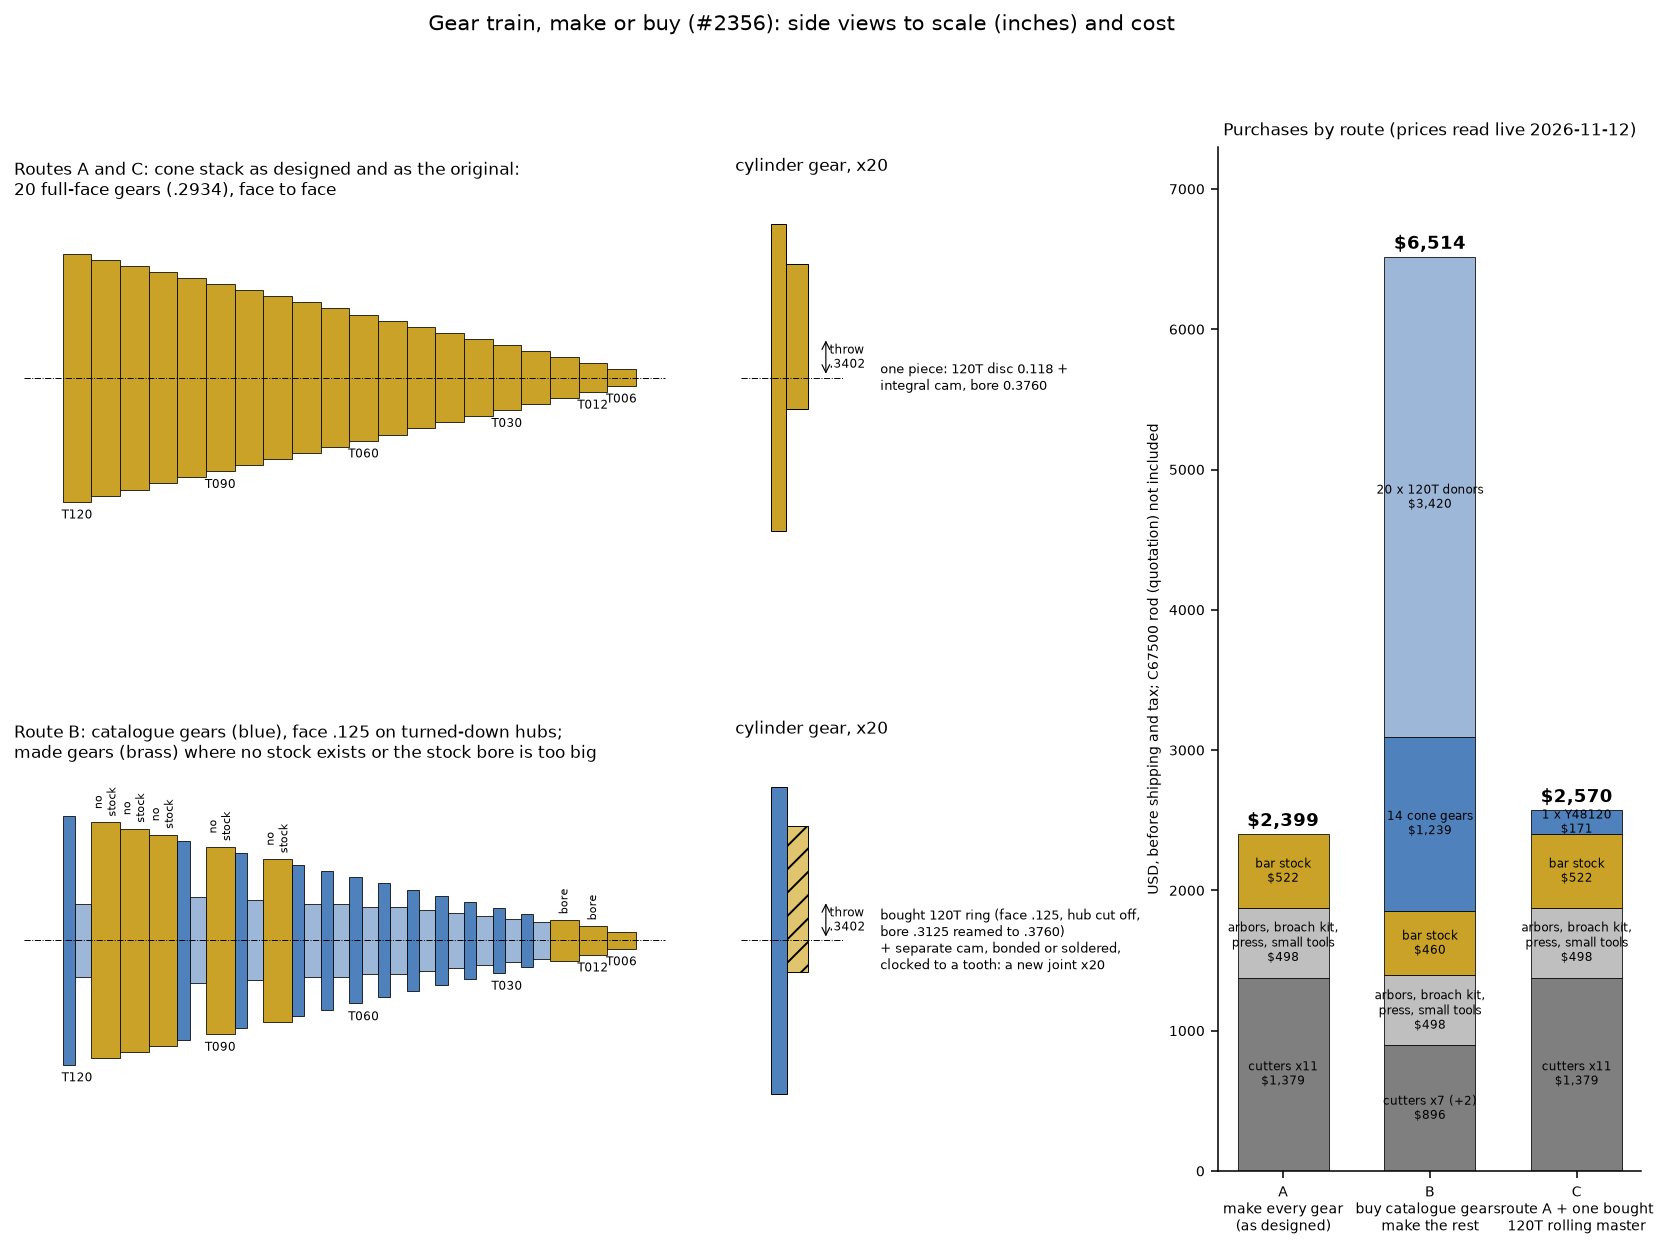
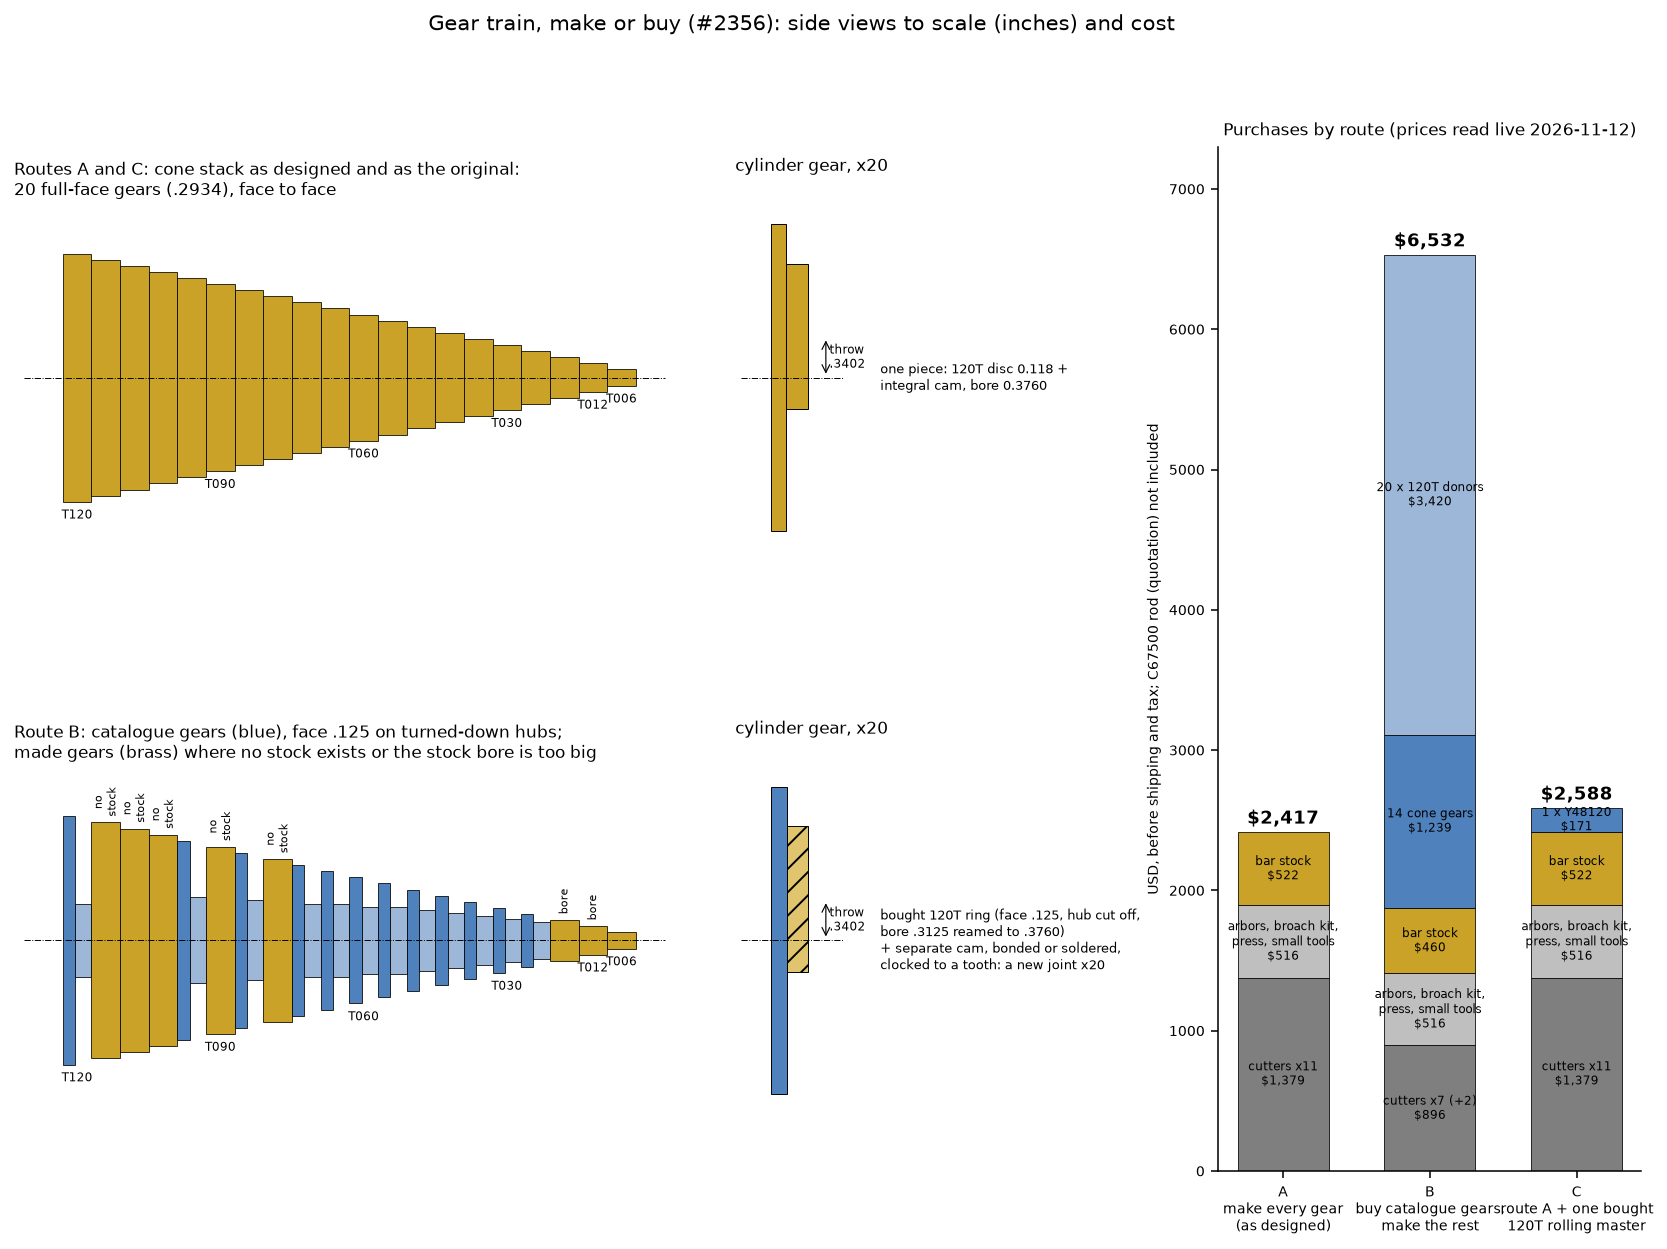
docs: tool kits in machining-dfm; purchase list with the kits' hardware (#2356, #2361, #2358, #2465)

diff --git a/research/3-detailed-design/gear-train-purchase-options/compare_routes.py b/research/3-detailed-design/gear-train-purchase-options/compare_routes.py
@@ -46,9 +46,9 @@ BRASS, BOUGHT, MADE, STEEL = "#c9a227", "#4f81bd", "#c9a227", "#8c8c8c"
 
 # Route totals, USD before shipping and tax, C67500 rod (quotation) excluded.
 ROUTES = (
-    ("A\nmake every gear\n(as designed)", (("cutters x11", 1379.13), ("arbors, broach kit,\npress, small tools", 498.48), ("bar stock", 521.58))),
-    ("B\nbuy catalogue gears,\nmake the rest", (("cutters x7 (+2)", 895.97), ("arbors, broach kit,\npress, small tools", 498.48), ("bar stock", 460.39), ("14 cone gears", 1239.32), ("20 x 120T donors", 3420.00))),
-    ("C\nroute A + one bought\n120T rolling master", (("cutters x11", 1379.13), ("arbors, broach kit,\npress, small tools", 498.48), ("bar stock", 521.58), ("1 x Y48120", 171.00))),
+    ("A\nmake every gear\n(as designed)", (("cutters x11", 1379.13), ("arbors, broach kit,\npress, small tools", 516.20), ("bar stock", 521.58))),
+    ("B\nbuy catalogue gears,\nmake the rest", (("cutters x7 (+2)", 895.97), ("arbors, broach kit,\npress, small tools", 516.20), ("bar stock", 460.39), ("14 cone gears", 1239.32), ("20 x 120T donors", 3420.00))),
+    ("C\nroute A + one bought\n120T rolling master", (("cutters x11", 1379.13), ("arbors, broach kit,\npress, small tools", 516.20), ("bar stock", 521.58), ("1 x Y48120", 171.00))),
 )  # fmt: skip
 
 

diff --git a/cad/docs/machining-dfm.md b/cad/docs/machining-dfm.md
@@ -82,7 +82,7 @@ its first-root position; no second general note restates that location.
 - **The repeat families (make N identical by hand: the shop is manual, so fixtures, stops and indexing carry the repeatability):**
   | family | qty | repeat risk and route |
   |---|---|---|
-  | `dt-cylinder-gear` (+ integral cam) | 20 | 120 teeth + eccentric cam + 0.4 mm index notch, all co-phased +Y — hand-repeating 20× scatters the phase. Teeth with the stock #2 cutter on the BS-0; the cam's throw and phase need an eccentric fixture that is not drawn, so the cam route is **not selected** ([#2361](https://github.com/pedropaulovc/harmonic-analyzer/issues/2361)); the notch needs a .014 in screw-slotting saw that is not yet owned (`shop-equipment.toml` `tools.cylinder-notch-saw`, [#2364](https://github.com/pedropaulovc/harmonic-analyzer/issues/2364)) |
+  | `dt-cylinder-gear` (+ integral cam) | 20 | 120 teeth + eccentric cam + 0.4 mm index notch, all co-phased +Y — hand-repeating 20× scatters the phase. Bore and OD first, then teeth and notch together on an arbor with the stock #2 cutter on the BS-0, then the cam on the lathe fixture MHA-DT-12-TL-01 (fitting sheet MHA-DT-12-TL-00): its stub sets the throw and its clock pin, in the notched tooth space, sets the phase, once for all 20 (see [Cylinder-gear cam](#cylinder-gear-cam)). The notch needs a .014 in screw-slotting saw that is not yet owned (`shop-equipment.toml` `tools.cylinder-notch-saw`, [#2364](https://github.com/pedropaulovc/harmonic-analyzer/issues/2364)) |
   | `dt-cone-gear` | 19 | involute teeth cut with stock 48DP PA20 range cutters indexed on the BS-0 dividing head; T006 (`dt-cone-tip-gear`) alone needs a special cutter (see [Cutter plan](#cutter-plan)); wire-EDM = outsource alt. T030–T120 are bored and broached first, then cut on the keyed arbor MHA-DT-03-TL-03 (fitting sheet MHA-DT-03-TL-05), which clocks each blank by its keyway. The cutters, cutter arbors and broach are recorded to buy, not owned (`shop-equipment.toml`, "gear cutting kit"; the purchase is the owner's decision on [#2356](https://github.com/pedropaulovc/harmonic-analyzer/issues/2356)) |
   | `ch-rocker-arm` / `ch-channel-lever` hubs | 20 each | the integral hubs stack face to face and set the 7.62 (.300) channel pitch; the 19 `pivot-bushing` and 19 `lever-bushing` spacers are retired. Hub width consistency across each set is the point ([#2344](https://github.com/pedropaulovc/harmonic-analyzer/issues/2344)) |
   | `ch-rocker-arm` | 20 | strap with a pressed hub; the R800/R816 arcs are cut on the oblique jig MHA-CH-06-TL-00, by a held reference route that is not yet qualified (`cad/process/ch_rocker_arm/plan.toml`) |
@@ -1233,12 +1233,46 @@ and twenty cost about fourteen times the brass bar; the part is not designed aro
 48DP PA20 brass gears exist for fourteen of the cone's tooth counts, all with a .125 in face
 against the cone's .2934 (the comparison is in the folder named above).
 
+### Keyed cone gears on the arbor
+
+T030 to T120 and the 64T are bored Ø.375 and broached before their teeth are cut, then cut on the
+keyed arbor MHA-DT-03-TL-03 (kit MHA-DT-03-TL-05: arbor, key MHA-DT-03-TL-06, three backing
+collars MHA-DT-03-TL-04 and a 1/4-28 nut). The arbor's key carries the blank's clock: set the key
+on the cutter's centreline, then index half a pitch before the first gap, so the keyway stands on
+a tooth's centreline as the gear sheets draw it. Use the largest collar under the blank's root
+(Ø.50 for T030 to T048, Ø1.00 for T054 to T084, Ø1.75 for T090 to T120 and the 64T) and feed
+toward the collar. The cone gears run between the BS-0's centres. For the 64T the head is tilted
+and there is no tail centre: grip the arbor's Ø.62 end in the head's chuck against its step,
+which leaves the blank more than .75 in clear of the jaws for the cutter to run out, and indicate
+the seat within the sheet's setup allowance before cutting.
+
+### Cylinder-gear cam
+
+The cam is turned last, on the fixture MHA-DT-12-TL-01. The body is gripped in the four-jaw chuck,
+indicated true once on its register diameter and left there for all 20 gears. Each gear goes on
+the fixture's Ø3/8 stub by its reamed bore, with the notched tooth space over the clock pin, is
+turned against the pin in the direction the cut pushes it (MHA-DT-12-TL-00 step 2) and is clamped
+by the screw in the stub's end. One screw and a Ø.0375 pin hold it, and the cut is interrupted
+until the cam cleans up, so rough each cam close to size before it goes on the fixture and take
+light finishing cuts there. Check the throw with a micrometer over the cam and a Ø.376 pin in the
+bore: 1.1307 in nominal, ±.002. The fixture's own errors are the same for every gear; from gear
+to gear the cam's phase to the notch scatters by up to .24° (bore clearance on the stub, pin play
+in the tooth space), inside the printed ±.25°. Adding the fixture's fixed error gives .37° worst
+case against the same band, which is open with the owner
+([#2361](https://github.com/pedropaulovc/harmonic-analyzer/issues/2361)).
+
 ### T006 special cutter
 
-No range cutter reaches 6 teeth, so T006 needs a tool made in the shop: DT6-FORM1, a custom
-ground form tool. Sheet 2 of the MHA-DT-37 package defines the T006 tooth space it is ground to,
-point by point with its form tolerance; the tool itself (blank, rake, relief, holder) is not drawn,
-and the form band has no gauge the shop owns
+No range cutter reaches 6 teeth, so T006 needs a tool made in the shop: DT6-FORM1, a single-point
+form tool. It is drawn as MHA-DT-37-TL-01 (the bit: Ø1/8 O1 drill rod, zero top rake, so the
+form on its face is the T006 tooth space), held in the cutter bar MHA-DT-37-TL-02 and set by the
+fitting sheet MHA-DT-37-TL-00. Sheet 2 of the MHA-DT-37 package still defines the tooth space
+point by point; the bit is built from the same curves. The form has no tolerance band of its own:
+the shop owns nothing finer than a 10× loupe with a .1 mm reticle, so the tool is accepted by the
+gear it cuts. Before hardening, compare the bit's face with a printed enlargement of sheet 2
+under the loupe and try its tip and widths with pin gauges; then make a trial cut in brass and
+measure it over pins against the MHA-DT-37 gear data. Final acceptance is the cut gear's
+over-pins size and its mesh at assembly
 ([#2358](https://github.com/pedropaulovc/harmonic-analyzer/issues/2358)). T006 has no bore since owner
 decision C1 keyed (2026-11-09, PR #1992), so the cutter leaves no root-to-bore web; it runs off over
 the integral spigot and pivot (.011 in radial).

diff --git a/research/3-detailed-design/gear-train-purchase-options/README.md b/research/3-detailed-design/gear-train-purchase-options/README.md
@@ -55,9 +55,9 @@ they rotate together". The design's 1/16 key (owner decision C1 keyed,
 
 | | route | purchases | what changes |
 |---|---|--:|---|
-| A | Make every gear, as designed | **$2,399** | nothing |
-| B | Buy the 14 catalogue cone gears and 20 cylinder-gear donors; make the rest | **$6,514** | appearance of the cone; a new cam joint on 20 cylinder gears; spacer and hub redesign; mesh checks rerun on generated teeth |
-| C | Route A, plus one Boston Y48120 as a 120T master to roll cut gears against | **$2,570** | nothing in the machine; one more shop gauge |
+| A | Make every gear, as designed | **$2,417** | nothing |
+| B | Buy the 14 catalogue cone gears and 20 cylinder-gear donors; make the rest | **$6,532** | appearance of the cone; a new cam joint on 20 cylinder gears; spacer and hub redesign; mesh checks rerun on generated teeth |
+| C | Route A, plus one Boston Y48120 as a 120T master to roll cut gears against | **$2,588** | nothing in the machine; one more shop gauge |
 
 All three exclude the C67500 rod for T006 to T024 (5/8 in, about 6 in),
 which every mill found sells by quotation only.
@@ -70,7 +70,7 @@ each gear by its span or over-pins size and by backlash at assembly.
 
 ## Purchase list
 
-Common to every route, $498.48:
+Common to every route, $516.20:
 
 | item | SKU | price |
 |---|---|--:|
@@ -83,8 +83,16 @@ Common to every route, $498.48:
 | End mill, 1/16, 2-flute HSS, 0/+.002, two off | McMaster 2802A81 | $72.10 |
 | Key stock, 1/16 undersized, 12 in (machine key and arbor key) | McMaster 98830A511 | $0.47 |
 | 1018 CF round, 3 in x 2 in and 7/8 x 12 in (crank pair) | OnlineMetals 7566, 4796 | $27.36 |
-| O1 drill rod, 1/8 and 3/16 x 36 in (T006 form tool) | OnlineMetals 4630, McMaster 8893K178 | $14.29 |
-| Dowel pins, 3/8 x 1: one pull-out, one pack plain (cam fixture) | McMaster 97175A348, 98381A624 | $19.93 |
+| O1 drill rod, 1/8 x 36 in (T006 form tool MHA-DT-37-TL-01) | OnlineMetals 4630 | $6.43 |
+| Hex nut, 1/4-28, pack of 100 (keyed arbor kit MHA-DT-03-TL-05) | McMaster 95462A505 | $8.00 |
+| Pull-out dowel pin, 3/8 (cam fixture stub, MHA-DT-12-TL-00) | McMaster 97175A344 | $3.81 |
+| Gauge pin, .0375 (cam fixture clock pin) | McMaster 23065A503 | $7.50 |
+| Socket head screw, 10-32, pack of 50 (cam fixture clamp) | McMaster 91251A337 | $22.41 |
+| Washer, #10, pack of 100 (cam fixture clamp) | McMaster 92141A011 | $3.79 |
+
+The shop-made tools' own bar (5/8 and 3/8 1018 for the arbor and cutter bar,
+a Ø3.25 x 1 in 1018 slug for the cam fixture, collar offcuts) and the two
+press reamers the cam fixture's pins need (.3745 and .0365) are not priced.
 
 Route A adds the eleven cutters, $1,379.13, and brass bar, $521.58 (six
 C360 bars for the drive train, $439.04, and the 3-1/4 in bar for the
